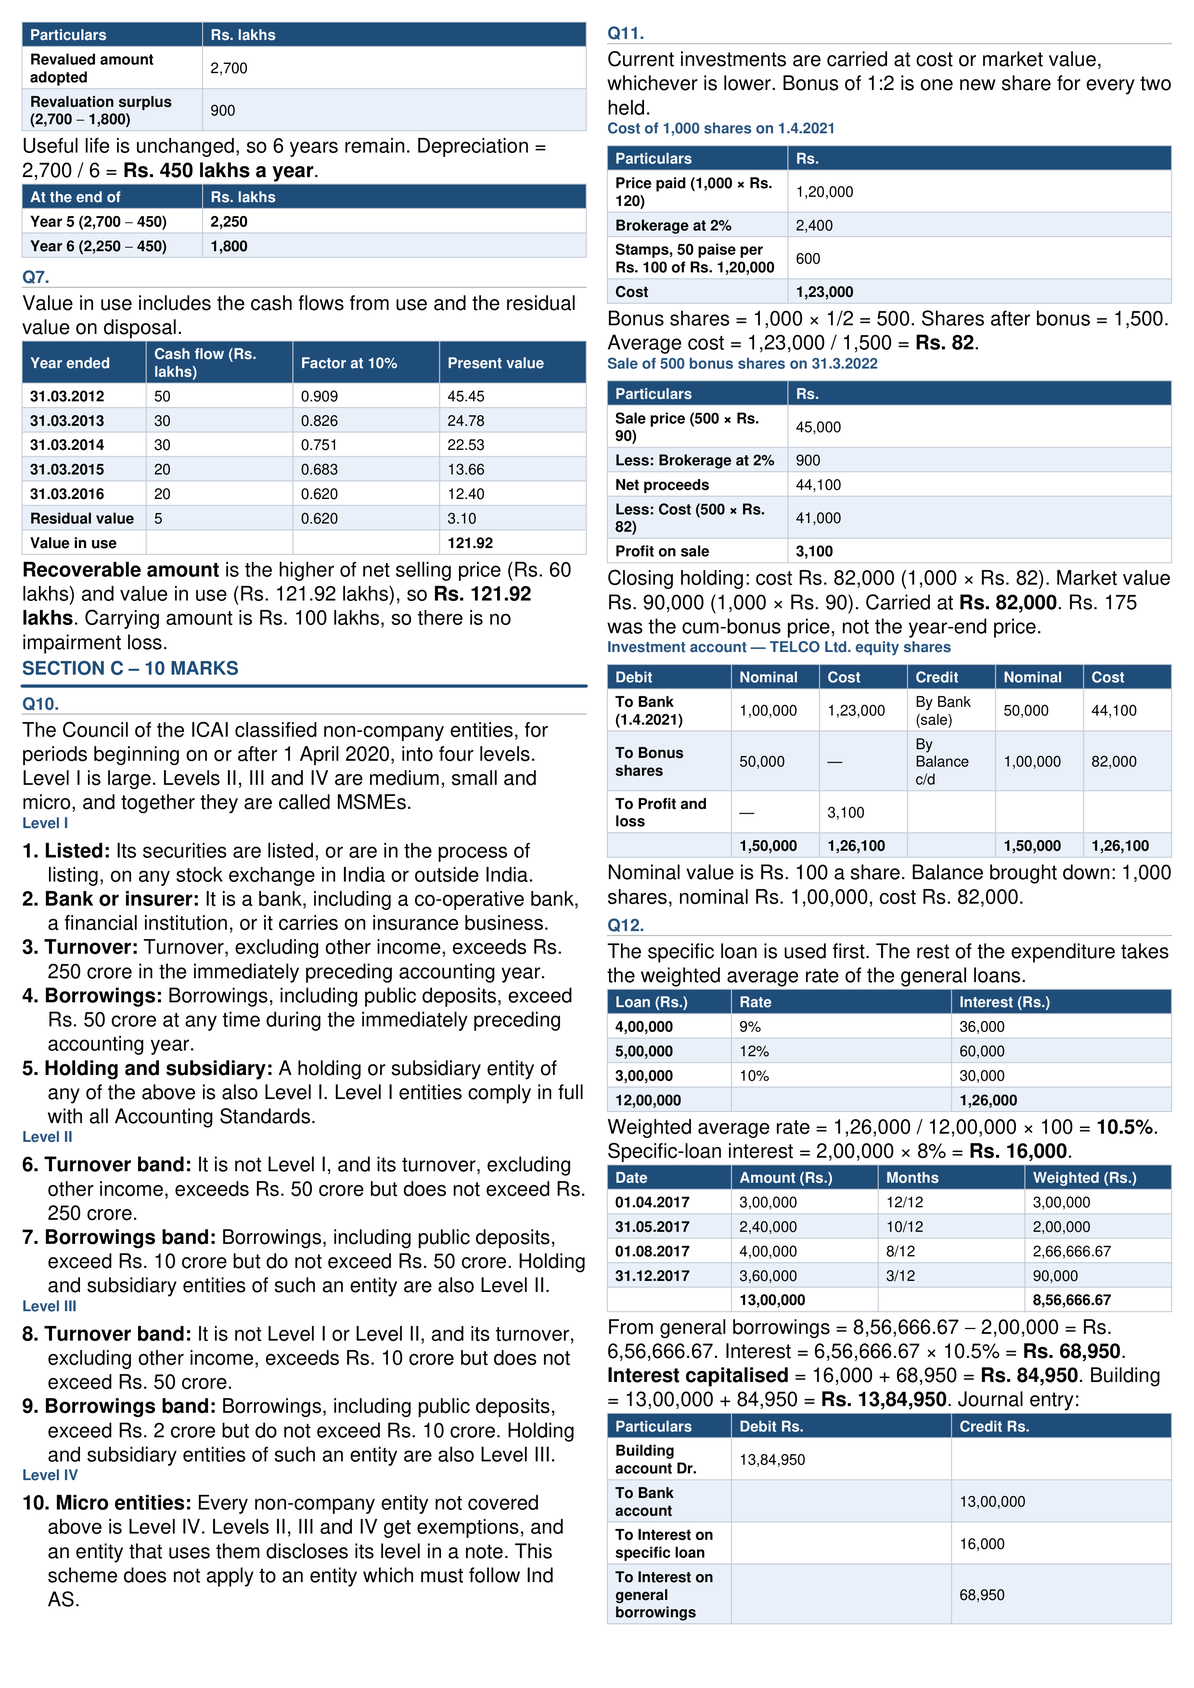
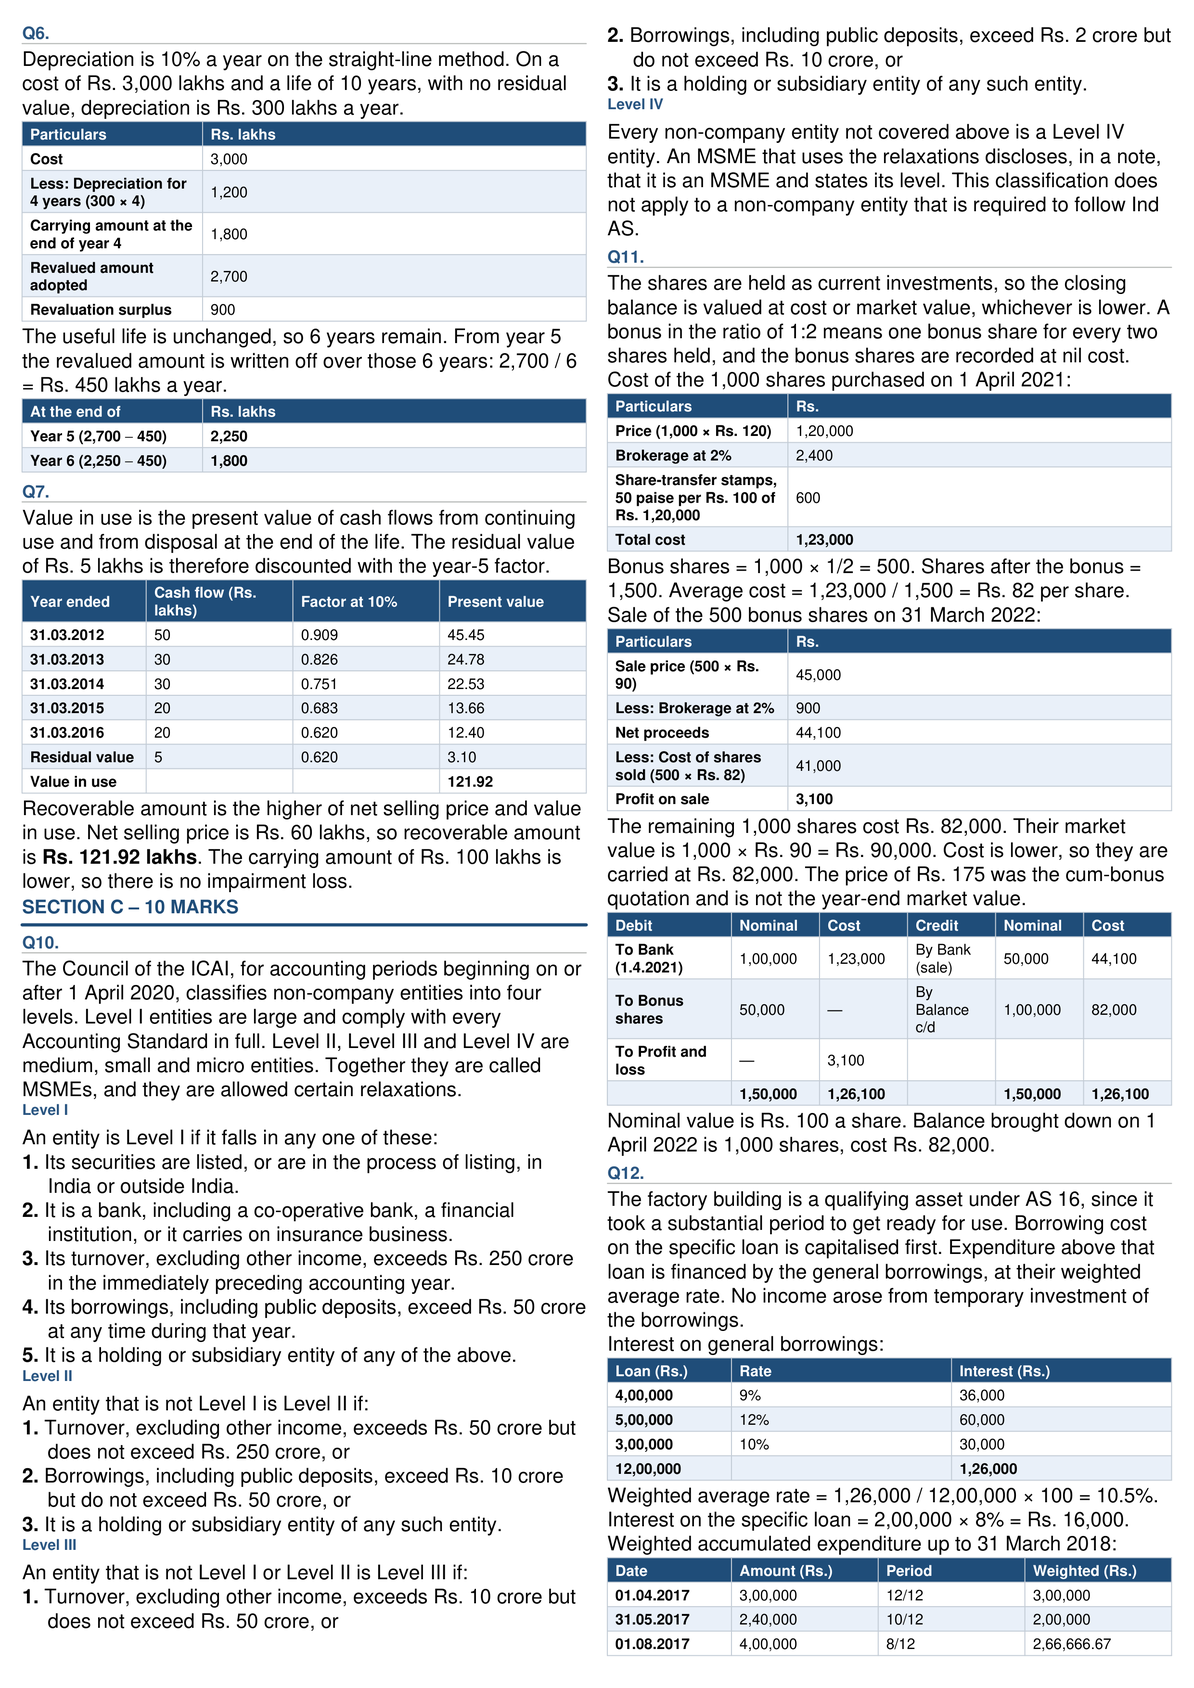
Write Accounting Standards answers in the notes' shape.
A theory answer opens with a short paragraph and then lists the standard's own points. Problems stay as workings. English remains paragraphs, and that rule is recorded for later papers.

diff --git a/papers/accounting-standards-54323/answers.md b/papers/accounting-standards-54323/answers.md
@@ -1,6 +1,7 @@
 <!--
   Third Semester B.Com, December 2025 / January 2026 (SEP), Accounting Standards I, Q.P. 54323.
   Choice rule: only the first N of each section. A: 1(a)-(j). B: Q2-Q7. C: Q10-Q12.
+  Shape: a short paragraph, then points where the standard lists items. Problems are workings.
 -->
 
 # SECTION A – 2 MARKS
@@ -9,66 +10,81 @@
 An **accounting standard** is a written statement of rules for recognising, measuring, presenting and disclosing transactions in the financial statements. In India the Accounting Standards Board prepares them and the Council of the ICAI issues them. A standard cannot override the law.
 
 ## Q1. (b)
-1. **Standardisation:** Similar transactions are recorded in one accepted way, so alternative treatments are reduced.
-2. **Disclosure:** Extra information is given in the statements, so users can understand the figures.
-3. **Comparability:** Statements of different enterprises, and of the same enterprise over the years, can be compared.
+Accounting standards are issued so that enterprises follow one accepted practice. Their benefits are:
+1. **Standardisation:** similar transactions are recorded in one way.
+2. **Disclosure:** the statements give the extra information users need.
+3. **Comparability:** results of different enterprises, and of different years, can be compared.
 
 ## Q1. (c)
-**Inventories**, as per AS 2 (Revised), are assets held for sale in the ordinary course of business, or in the process of production for such sale. They also include materials and supplies to be consumed in production or in rendering services.
+**Inventories**, as per AS 2 (Revised), are assets held:
+1. for sale in the ordinary course of business,
+2. in the process of production for such sale, or
+3. as materials or supplies to be consumed in production or in rendering services.
 
 ## Q1. (d)
-**Property, plant and equipment**, as per AS 10 (Revised), are tangible items held for use in production or supply, for rental to others, or for administration. They are expected to be used for more than one period, that is more than 12 months.
+**Property, plant and equipment**, as per AS 10 (Revised), are tangible items held for use in the production or supply of goods or services, for rental to others, or for administrative purposes. They are expected to be used during more than one period, that is for more than 12 months.
 
 ## Q1. (e)
-1. **Current investment:** Readily realisable, and intended to be held for not more than one year from the date of purchase.
-2. **Long-term investment:** Any investment other than a current investment, such as shares, debentures, bonds or government securities held for a longer period.
+AS 13 classifies investments by the period for which they are held:
+1. **Current investment:** readily realisable, and intended to be held for not more than one year from the date of purchase.
+2. **Long-term investment:** any investment other than a current investment.
 
 ## Q1. (f)
-**Borrowing cost**, as per AS 16, means interest and other costs incurred in connection with the borrowing of funds. It includes interest on loans, amortisation of discount or premium, finance charges on leases, and exchange differences treated as an adjustment to interest.
+**Borrowing cost**, as per AS 16, means interest and other costs incurred in connection with the borrowing of funds. It includes interest on loans, amortisation of discount or premium, finance charges under leases, and exchange differences to the extent they are an adjustment to interest.
 
 ## Q1. (g)
-1. **Patents:** The exclusive right over an invention.
-2. **Copyrights:** The right over books, music and other works.
-3. **Trademarks:** A name, symbol or mark that identifies goods.
-4. **Computer software:** Programs used by the enterprise.
+Intangible assets have no physical substance. Four examples are:
+1. Patents
+2. Copyrights
+3. Trademarks
+4. Computer software
 
 ## Q1. (h)
 A **lease**, as per AS 19, is an agreement by which the lessor gives the lessee the right to use an asset for an agreed period, in return for a payment or a series of payments. A finance lease transfers substantially all the risks and rewards of ownership. An operating lease does not.
 
 ## Q1. (i)
-1. **Short-term benefits:** Wages, salaries, paid leave and bonuses payable within twelve months.
-2. **Post-employment benefits:** Gratuity, pension and other retirement benefits.
-3. **Other long-term benefits:** Long-service leave and deferred compensation.
-4. **Termination benefits:** Amounts payable when an employee's service comes to an end.
+AS 15 (Revised) divides employee benefits into four types:
+1. **Short-term benefits**, such as wages, paid leave and bonuses payable within twelve months.
+2. **Post-employment benefits**, such as gratuity and pension.
+3. **Other long-term benefits**, such as long-service leave.
+4. **Termination benefits**, payable when employment comes to an end.
 
 ## Q1. (j)
-**AS 29** deals with provisions, contingent liabilities and contingent assets. A provision is recognised only when there is a present obligation from a past event, an outflow is probable, and a reliable estimate can be made. Contingent liabilities are disclosed, not recognised. Contingent assets are not recognised.
+**AS 29** lays down when a provision, a contingent liability and a contingent asset are recognised. A provision is recorded only when a present obligation arises from a past event, an outflow of resources is probable, and the amount can be estimated reliably. A contingent liability is disclosed, not recognised. A contingent asset is not recognised.
 
 # SECTION B – 5 MARKS
 
 ## Q2.
-1. **Identification of the area:** The Accounting Standards Board, set up by the ICAI in 1977, selects the subject that needs a standard.
-2. **Study group and draft:** A study group is formed, and it prepares a draft which is circulated for views.
-3. **Exposure draft:** The draft is finalised as an exposure draft and issued to the public and interested bodies.
-4. **Comments and modification:** Comments received on the exposure draft are considered, and the draft is modified.
-5. **Issue of the standard:** The Council of the ICAI issues the Accounting Standard. For companies, the Ministry of Corporate Affairs notifies it. A standard cannot override the law.
+The ICAI constituted the Accounting Standards Board in 1977 to prepare standards. The standard-setting process is:
+1. The area that needs a standard is identified.
+2. A study group is formed and it prepares a draft.
+3. The draft is circulated and the views of different bodies are taken.
+4. An exposure draft is finalised and issued for public comments.
+5. The draft is modified in the light of those comments.
+6. The Council of the ICAI issues the Accounting Standard. For companies, the Ministry of Corporate Affairs notifies it.
+
+A standard does not override the law. Where the law requires a different treatment, the law is followed and the departure is disclosed.
 
 ## Q3.
-1. **Meaning:** Amortisation is the systematic allocation of the depreciable amount of an intangible asset over its useful life.
-2. **Depreciable amount:** It is cost, or the amount substituted for cost, less residual value. The charge begins when the asset is available for use and is recognised as an expense.
-3. **Straight-line method:** An equal amount is written off each year over the useful life. This method is used when the pattern of benefits cannot be determined reliably.
-4. **Diminishing-balance method:** A fixed percentage is applied each year to the written-down value of the asset.
-5. **Unit-of-production method:** The amount is allocated on the basis of the units expected from the asset. The chosen method is reviewed at each year end, and a change is treated as a change in estimate.
+**Amortisation** is the systematic writing off of the depreciable amount of an intangible asset over its useful life. Depreciable amount is cost, or the amount substituted for cost, less any residual value. The charge begins when the asset is available for use and is recognised as an expense.
+
+AS 26 requires the method to follow the pattern in which the economic benefits are consumed. If that pattern cannot be determined reliably, the straight-line method is used. The methods are:
+1. **Straight-line method:** an equal amount each year.
+2. **Diminishing-balance method:** a fixed percentage on the written-down value.
+3. **Unit-of-production method:** based on the units expected from the asset.
+
+The period and the method are reviewed at each financial year end. A change is treated as a change in accounting estimate.
 
 ## Q4.
-1. **Present obligation:** The enterprise has a present legal or constructive obligation as a result of a past event.
-2. **Probable outflow:** An outflow of resources embodying economic benefits is probable, meaning more likely than not.
-3. **Reliable estimate:** A reliable estimate can be made of the amount of the obligation.
-4. **Best estimate:** The provision is the best estimate of the expenditure required to settle the obligation at the balance-sheet date. If any one condition fails, no provision is made.
-5. **If not recognised:** Where the outflow is not probable, or the amount cannot be estimated, the item is a contingent liability and is disclosed, unless the chance of outflow is remote. A contingent asset is not recognised.
+AS 29 says a provision is recognised only when all three conditions are met:
+1. The enterprise has a present obligation, legal or constructive, as a result of a past event.
+2. An outflow of resources embodying economic benefits is probable, that is more likely than not.
+3. A reliable estimate can be made of the amount. The amount recognised is the best estimate of the expenditure required to settle the obligation at the balance-sheet date.
+
+If any one condition fails, no provision is made. The item is then a contingent liability and is disclosed, unless the possibility of outflow is remote. A contingent asset is not recognised.
 
 ## Q5.
-Fixed production overhead is absorbed on normal capacity. Rs. 20,00,000 / 2,00,000 kg = Rs. 10 per kg.
+Under AS 2, fixed production overhead is absorbed on normal capacity. Fixed overhead per kg = Rs. 20,00,000 / 2,00,000 kg = Rs. 10.
 
 | Particulars | Rs. per kg |
 | --- | --- |
@@ -78,20 +94,20 @@ Fixed production overhead is absorbed on normal capacity. Rs. 20,00,000 / 2,00,0
 | Fixed production overhead | 10 |
 | **Cost of finished goods** | **270** |
 
-**Value of closing inventory** = 4,000 kg × Rs. 270 = **Rs. 10,80,000**.
+Value of closing inventory = 4,000 kg × Rs. 270 = **Rs. 10,80,000**.
 
 ## Q6.
-Annual depreciation on cost = 10% of Rs. 3,000 lakhs = Rs. 300 lakhs. No residual value is given.
+Depreciation is 10% a year on the straight-line method. On a cost of Rs. 3,000 lakhs and a life of 10 years, with no residual value, depreciation is Rs. 300 lakhs a year.
 
 | Particulars | Rs. lakhs |
 | --- | --- |
-| Cost of machinery | 3,000 |
+| Cost | 3,000 |
 | Less: Depreciation for 4 years (300 × 4) | 1,200 |
 | Carrying amount at the end of year 4 | 1,800 |
 | Revalued amount adopted | 2,700 |
-| Revaluation surplus (2,700 − 1,800) | 900 |
+| Revaluation surplus | 900 |
 
-Useful life is unchanged, so 6 years remain. Depreciation = 2,700 / 6 = **Rs. 450 lakhs a year**.
+The useful life is unchanged, so 6 years remain. From year 5 the revalued amount is written off over those 6 years: 2,700 / 6 = Rs. 450 lakhs a year.
 
 | At the end of | Rs. lakhs |
 | --- | --- |
@@ -99,7 +115,7 @@ Useful life is unchanged, so 6 years remain. Depreciation = 2,700 / 6 = **Rs. 45
 | Year 6 (2,250 − 450) | **1,800** |
 
 ## Q7.
-Value in use includes the cash flows from use and the residual value on disposal.
+Value in use is the present value of cash flows from continuing use and from disposal at the end of the life. The residual value of Rs. 5 lakhs is therefore discounted with the year-5 factor.
 
 | Year ended | Cash flow (Rs. lakhs) | Factor at 10% | Present value |
 | --- | --- | --- | --- |
@@ -111,54 +127,61 @@ Value in use includes the cash flows from use and the residual value on disposal
 | Residual value | 5 | 0.620 | 3.10 |
 | **Value in use** | | | **121.92** |
 
-**Recoverable amount** is the higher of net selling price (Rs. 60 lakhs) and value in use (Rs. 121.92 lakhs), so **Rs. 121.92 lakhs**. Carrying amount is Rs. 100 lakhs, so there is no impairment loss.
+Recoverable amount is the higher of net selling price and value in use. Net selling price is Rs. 60 lakhs, so recoverable amount is **Rs. 121.92 lakhs**. The carrying amount of Rs. 100 lakhs is lower, so there is no impairment loss.
 
 # SECTION C – 10 MARKS
 
 ## Q10.
-The Council of the ICAI classified non-company entities, for periods beginning on or after 1 April 2020, into four levels. Level I is large. Levels II, III and IV are medium, small and micro, and together they are called MSMEs.
+The Council of the ICAI, for accounting periods beginning on or after 1 April 2020, classifies non-company entities into four levels. Level I entities are large and comply with every Accounting Standard in full. Level II, Level III and Level IV are medium, small and micro entities. Together they are called MSMEs, and they are allowed certain relaxations.
+
 ### Level I
-1. **Listed:** Its securities are listed, or are in the process of listing, on any stock exchange in India or outside India.
-2. **Bank or insurer:** It is a bank, including a co-operative bank, a financial institution, or it carries on insurance business.
-3. **Turnover:** Turnover, excluding other income, exceeds Rs. 250 crore in the immediately preceding accounting year.
-4. **Borrowings:** Borrowings, including public deposits, exceed Rs. 50 crore at any time during the immediately preceding accounting year.
-5. **Holding and subsidiary:** A holding or subsidiary entity of any of the above is also Level I. Level I entities comply in full with all Accounting Standards.
+An entity is Level I if it falls in any one of these:
+1. Its securities are listed, or are in the process of listing, in India or outside India.
+2. It is a bank, including a co-operative bank, a financial institution, or it carries on insurance business.
+3. Its turnover, excluding other income, exceeds Rs. 250 crore in the immediately preceding accounting year.
+4. Its borrowings, including public deposits, exceed Rs. 50 crore at any time during that year.
+5. It is a holding or subsidiary entity of any of the above.
+
 ### Level II
-6. **Turnover band:** It is not Level I, and its turnover, excluding other income, exceeds Rs. 50 crore but does not exceed Rs. 250 crore.
-7. **Borrowings band:** Borrowings, including public deposits, exceed Rs. 10 crore but do not exceed Rs. 50 crore. Holding and subsidiary entities of such an entity are also Level II.
+An entity that is not Level I is Level II if:
+1. Turnover, excluding other income, exceeds Rs. 50 crore but does not exceed Rs. 250 crore, or
+2. Borrowings, including public deposits, exceed Rs. 10 crore but do not exceed Rs. 50 crore, or
+3. It is a holding or subsidiary entity of any such entity.
+
 ### Level III
-8. **Turnover band:** It is not Level I or Level II, and its turnover, excluding other income, exceeds Rs. 10 crore but does not exceed Rs. 50 crore.
-9. **Borrowings band:** Borrowings, including public deposits, exceed Rs. 2 crore but do not exceed Rs. 10 crore. Holding and subsidiary entities of such an entity are also Level III.
+An entity that is not Level I or Level II is Level III if:
+1. Turnover, excluding other income, exceeds Rs. 10 crore but does not exceed Rs. 50 crore, or
+2. Borrowings, including public deposits, exceed Rs. 2 crore but do not exceed Rs. 10 crore, or
+3. It is a holding or subsidiary entity of any such entity.
+
 ### Level IV
-10. **Micro entities:** Every non-company entity not covered above is Level IV. Levels II, III and IV get exemptions, and an entity that uses them discloses its level in a note. This scheme does not apply to an entity which must follow Ind AS.
+Every non-company entity not covered above is a Level IV entity. An MSME that uses the relaxations discloses, in a note, that it is an MSME and states its level. This classification does not apply to a non-company entity that is required to follow Ind AS.
 
 ## Q11.
-Current investments are carried at cost or market value, whichever is lower. Bonus of 1:2 is one new share for every two held.
+The shares are held as current investments, so the closing balance is valued at cost or market value, whichever is lower. A bonus in the ratio of 1:2 means one bonus share for every two shares held, and the bonus shares are recorded at nil cost.
 
-### Cost of 1,000 shares on 1.4.2021
+Cost of the 1,000 shares purchased on 1 April 2021:
 
 | Particulars | Rs. |
 | --- | --- |
-| Price paid (1,000 × Rs. 120) | 1,20,000 |
+| Price (1,000 × Rs. 120) | 1,20,000 |
 | Brokerage at 2% | 2,400 |
-| Stamps, 50 paise per Rs. 100 of Rs. 1,20,000 | 600 |
-| **Cost** | **1,23,000** |
+| Share-transfer stamps, 50 paise per Rs. 100 of Rs. 1,20,000 | 600 |
+| **Total cost** | **1,23,000** |
 
-Bonus shares = 1,000 × 1/2 = 500. Shares after bonus = 1,500. Average cost = 1,23,000 / 1,500 = **Rs. 82**.
+Bonus shares = 1,000 × 1/2 = 500. Shares after the bonus = 1,500. Average cost = 1,23,000 / 1,500 = Rs. 82 per share.
 
-### Sale of 500 bonus shares on 31.3.2022
+Sale of the 500 bonus shares on 31 March 2022:
 
 | Particulars | Rs. |
 | --- | --- |
 | Sale price (500 × Rs. 90) | 45,000 |
 | Less: Brokerage at 2% | 900 |
 | Net proceeds | 44,100 |
-| Less: Cost (500 × Rs. 82) | 41,000 |
+| Less: Cost of shares sold (500 × Rs. 82) | 41,000 |
 | **Profit on sale** | **3,100** |
 
-Closing holding: cost Rs. 82,000 (1,000 × Rs. 82). Market value Rs. 90,000 (1,000 × Rs. 90). Carried at **Rs. 82,000**. Rs. 175 was the cum-bonus price, not the year-end price.
-
-### Investment account — TELCO Ltd. equity shares
+The remaining 1,000 shares cost Rs. 82,000. Their market value is 1,000 × Rs. 90 = Rs. 90,000. Cost is lower, so they are carried at Rs. 82,000. The price of Rs. 175 was the cum-bonus quotation and is not the year-end market value.
 
 | Debit | Nominal | Cost | Credit | Nominal | Cost |
 | --- | --- | --- | --- | --- | --- |
@@ -167,10 +190,12 @@ Closing holding: cost Rs. 82,000 (1,000 × Rs. 82). Market value Rs. 90,000 (1,0
 | To Profit and loss | — | 3,100 | | | |
 | | **1,50,000** | **1,26,100** | | **1,50,000** | **1,26,100** |
 
-Nominal value is Rs. 100 a share. Balance brought down: 1,000 shares, nominal Rs. 1,00,000, cost Rs. 82,000.
+Nominal value is Rs. 100 a share. Balance brought down on 1 April 2022 is 1,000 shares, cost Rs. 82,000.
 
 ## Q12.
-The specific loan is used first. The rest of the expenditure takes the weighted average rate of the general loans.
+The factory building is a qualifying asset under AS 16, since it took a substantial period to get ready for use. Borrowing cost on the specific loan is capitalised first. Expenditure above that loan is financed by the general borrowings, at their weighted average rate. No income arose from temporary investment of the borrowings.
+
+Interest on general borrowings:
 
 | Loan (Rs.) | Rate | Interest (Rs.) |
 | --- | --- | --- |
@@ -179,9 +204,11 @@ The specific loan is used first. The rest of the expenditure takes the weighted 
 | 3,00,000 | 10% | 30,000 |
 | **12,00,000** | | **1,26,000** |
 
-Weighted average rate = 1,26,000 / 12,00,000 × 100 = **10.5%**. Specific-loan interest = 2,00,000 × 8% = **Rs. 16,000**.
+Weighted average rate = 1,26,000 / 12,00,000 × 100 = 10.5%. Interest on the specific loan = 2,00,000 × 8% = Rs. 16,000.
 
-| Date | Amount (Rs.) | Months | Weighted (Rs.) |
+Weighted accumulated expenditure up to 31 March 2018:
+
+| Date | Amount (Rs.) | Period | Weighted (Rs.) |
 | --- | --- | --- | --- |
 | 01.04.2017 | 3,00,000 | 12/12 | 3,00,000 |
 | 31.05.2017 | 2,40,000 | 10/12 | 2,00,000 |
@@ -189,9 +216,9 @@ Weighted average rate = 1,26,000 / 12,00,000 × 100 = **10.5%**. Specific-loan i
 | 31.12.2017 | 3,60,000 | 3/12 | 90,000 |
 | | **13,00,000** | | **8,56,666.67** |
 
-From general borrowings = 8,56,666.67 − 2,00,000 = Rs. 6,56,666.67. Interest = 6,56,666.67 × 10.5% = **Rs. 68,950**.
+Amount met from the specific loan = Rs. 2,00,000. Balance met from general borrowings = 8,56,666.67 − 2,00,000 = Rs. 6,56,666.67. Interest on that balance = 6,56,666.67 × 10.5% = Rs. 68,950.
 
-**Interest capitalised** = 16,000 + 68,950 = **Rs. 84,950**. Building = 13,00,000 + 84,950 = **Rs. 13,84,950**. Journal entry:
+Interest to be capitalised = 16,000 + 68,950 = **Rs. 84,950**. Cost of the building = 13,00,000 + 84,950 = **Rs. 13,84,950**.
 
 | Particulars | Debit Rs. | Credit Rs. |
 | --- | --- | --- |

diff --git a/CLAUDE.md b/CLAUDE.md
@@ -60,6 +60,13 @@ Don't mark or mention sources, on the page or in chat (the user's call, 2026-11-
   Choice questions ("answer any 10 of 12", "any 6 of 8"): answer **only the first N**
   in paper order and skip the rest (the user's rule, 2026-11-02).
 
+## Which shape, by subject (the user's call, 2026-11-06)
+
+The 2 / 5 / 10 point layout above is for HRM-style theory papers. Two subjects differ:
+
+- **Accounting standards:** follow the notes. A theory answer opens with a short paragraph, then points where the standard itself lists items (benefits, types, conditions, methods, levels). A problem is a working and a table, with one line for the result. Do not force exactly 5 or exactly 10 points.
+- **English:** paragraphs. Short notes and long answers are written in prose, the way the English notes are written. Do not turn them into numbered points.
+
 ## Size: the user prints 9-in-1
 
 The user prints 9 pages per A4 sheet (each page shrinks to ~0.31). History, all on
